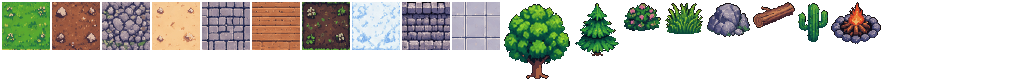
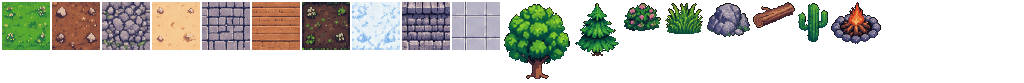
Quitar las rayas finas del suelo de las mazmorras
Los mosaicos de suelo traían en su borde una fila o columna de píxeles
de la textura vecina de la hoja original (por ejemplo, verde en la
tierra), que al repetirse dibujaba rayas finas. Los bordes de todos los
mosaicos ahora copian el interior. Versión 1.7.2.

Claude-Session: https://claude.ai/code/session_012giJR8jrsmCsJ3cu1HsXxX

diff --git a/js/game.js b/js/game.js
@@ -1,7 +1,7 @@
 // =====================================================
 //  UTILIDADES
 // =====================================================
-const VERSION = '1.7.1'; // también en index.html (estilos y scripts)
+const VERSION = '1.7.2'; // también en index.html (estilos y scripts)
 const $ = id => document.getElementById(id);
 // ---------- todo el mundo en pixel art ----------
 // cada hoja del mundo tiene una versión en pixel art (img/px) con cada dibujo reducido al tamaño con que se ve en pantalla.
